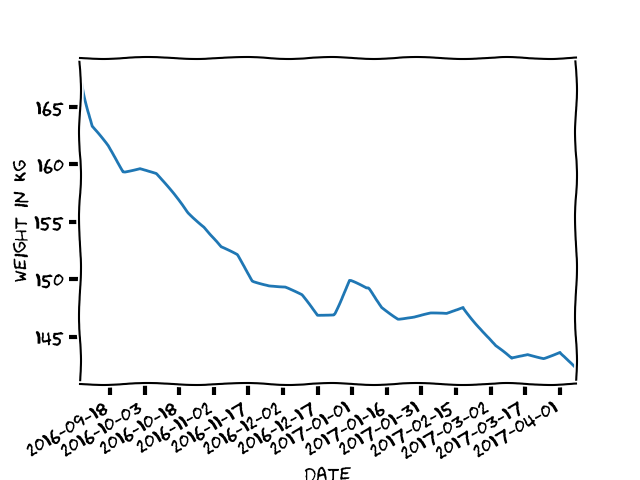
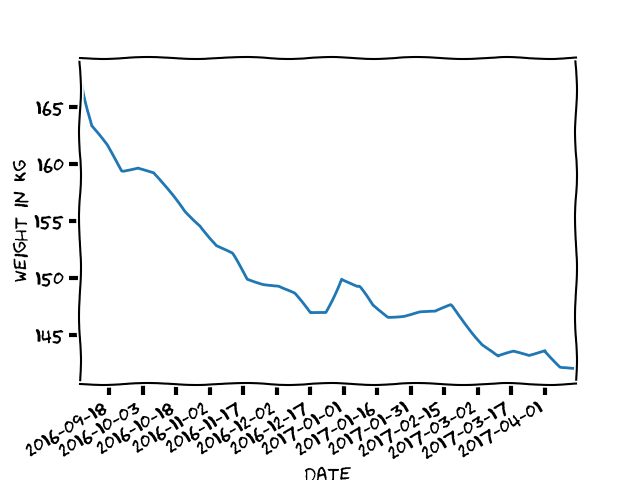
Week 15 update

diff --git a/index.html b/index.html
@@ -30,6 +30,14 @@
   </thead>
   <tbody>
     <tr>
+      <th>2017-04-15</th>
+      <td>142.0</td>
+      <td>-0.2</td>
+      <td>-26.0</td>
+      <td>42.4</td>
+      <td>1.7</td>
+    </tr>
+    <tr>
       <th>2017-04-08</th>
       <td>142.2</td>
       <td>-1.5</td>
